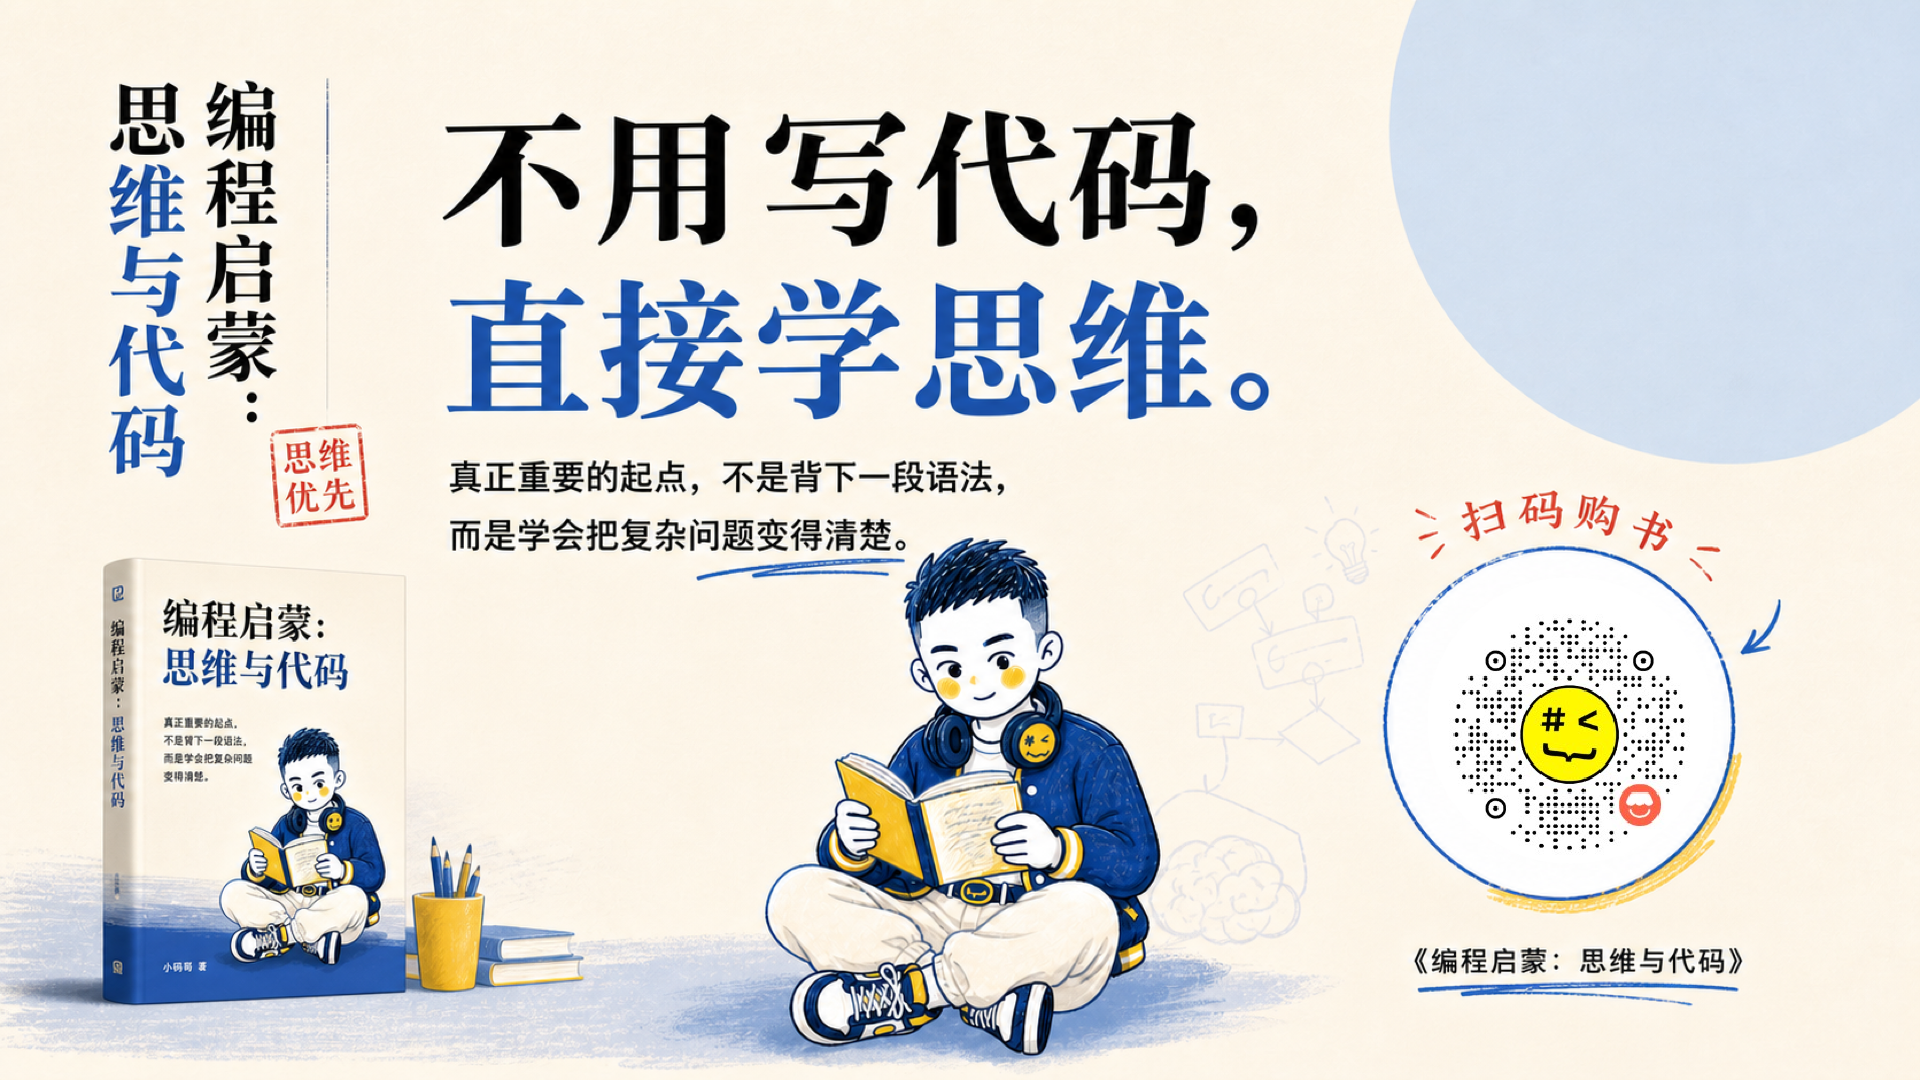
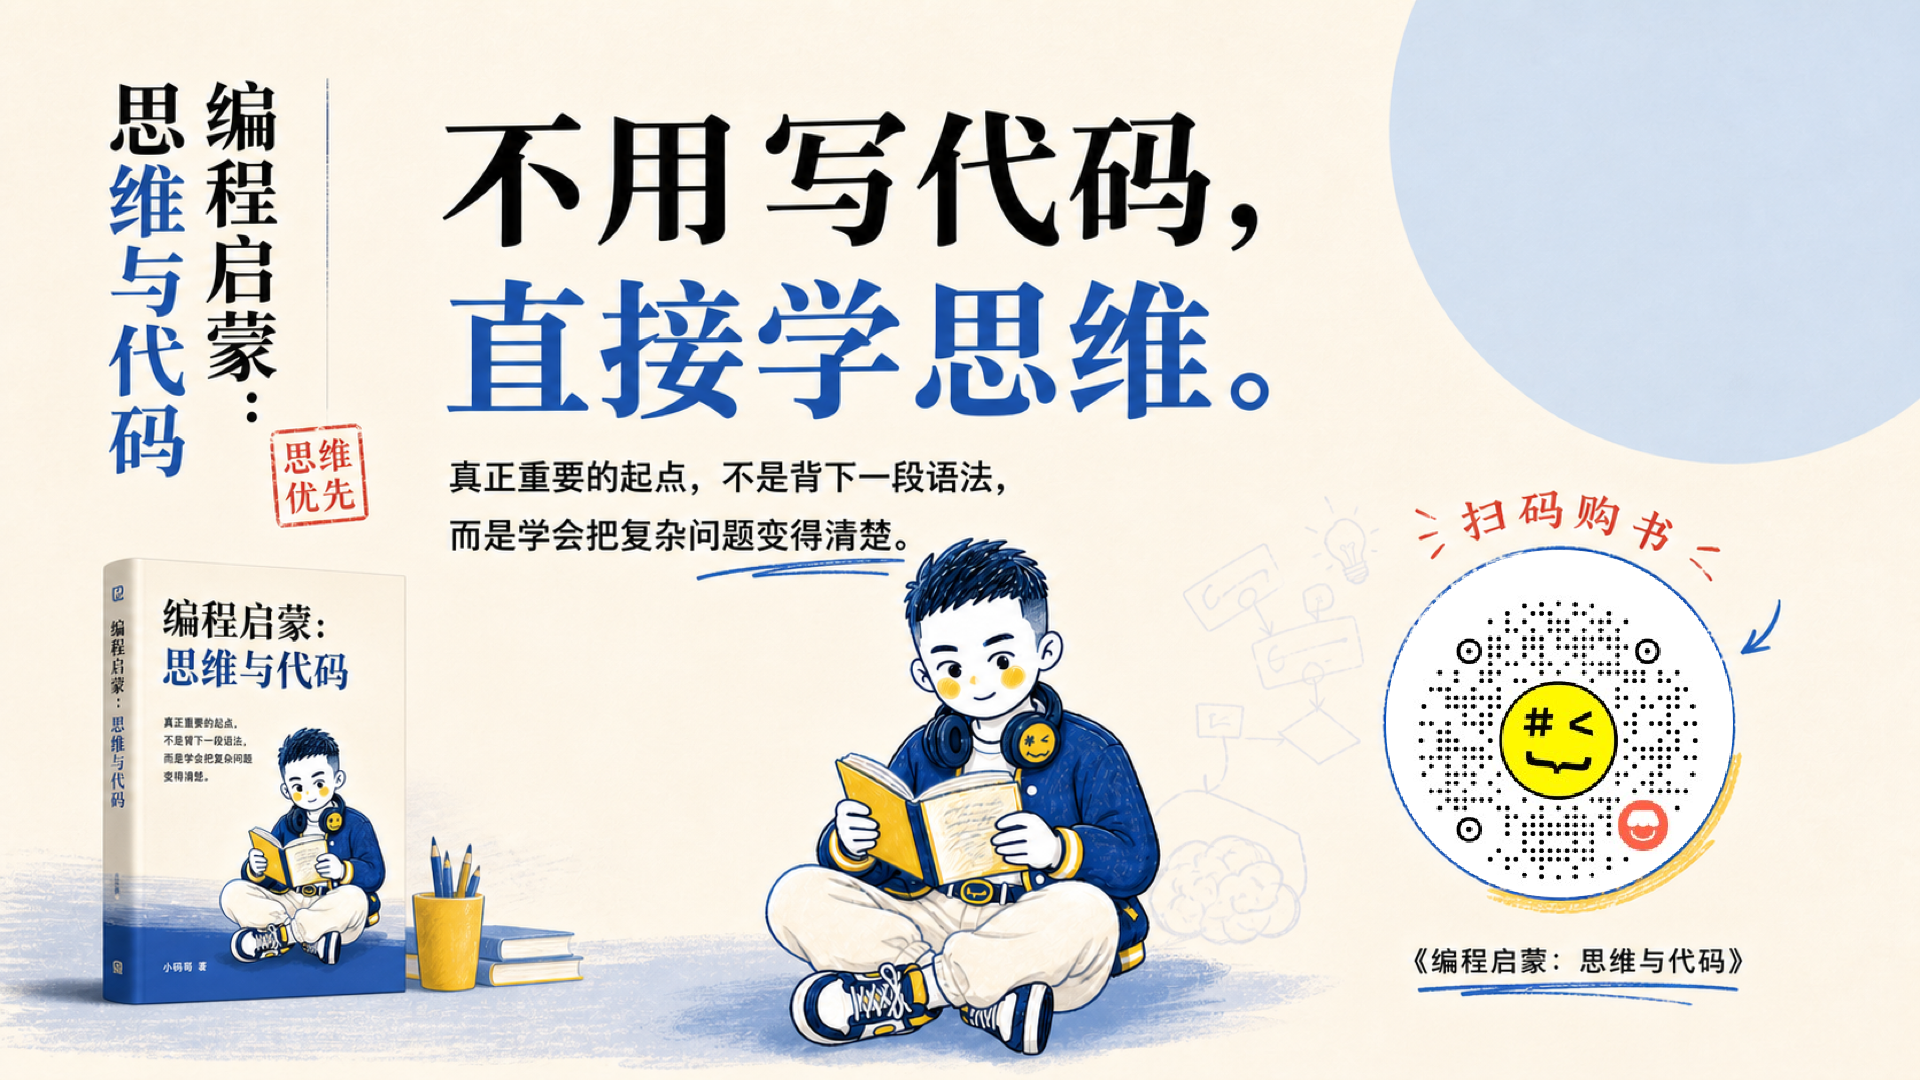
fix: enlarge QR codes across book posters

Changed region(s): [[0.7188, 0.55, 0.9062, 0.825]]

diff --git a/posters-programming-enlightenment/book-sales-qr-20-imagegen/PLACEMENT-QA.md b/posters-programming-enlightenment/book-sales-qr-20-imagegen/PLACEMENT-QA.md
@@ -4,7 +4,7 @@
 
 ## 验收规则
 
-- 每张二维码直径不小于 280px。
+- 每张二维码直径不小于 300px；根据版式留白逐张放大，最大为 430px。
 - 二维码完整保留圆形边缘与内部白色静区，不裁切黑色码点。
 - 按每张海报的预留圆形单独定位，不使用统一固定角落。
 - 不遮挡主标题、正文、人物面部、书封或“扫码购书”提示。
@@ -12,24 +12,23 @@
 
 | 编号 | 中心坐标 | 直径 |
 |---|---:|---:|
-| 01 | 1690, 775 | 280px |
-| 02 | 240, 745 | 280px |
-| 03 | 1710, 220 | 280px |
-| 04 | 1650, 870 | 300px |
-| 05 | 1470, 405 | 300px |
-| 06 | 1655, 770 | 280px |
-| 07 | 1590, 230 | 300px |
-| 08 | 1705, 840 | 300px |
-| 09 | 1708, 750 | 280px |
-| 10 | 1570, 720 | 290px |
-| 11 | 1690, 290 | 280px |
-| 12 | 1770, 885 | 280px |
-| 13 | 180, 230 | 280px |
-| 14 | 1680, 295 | 280px |
-| 15 | 235, 850 | 280px |
-| 16 | 1515, 490 | 300px |
-| 17 | 1675, 560 | 280px |
-| 18 | 1705, 465 | 280px |
-| 19 | 1695, 890 | 280px |
-| 20 | 1685, 720 | 300px |
-
+| 01 | 1709, 791 | 320px |
+| 02 | 263, 755 | 350px |
+| 03 | 1709, 239 | 340px |
+| 04 | 1665, 876 | 340px |
+| 05 | 1468, 403 | 420px |
+| 06 | 1662, 782 | 310px |
+| 07 | 1593, 229 | 390px |
+| 08 | 1702, 840 | 340px |
+| 09 | 1707, 750 | 320px |
+| 10 | 1559, 723 | 350px |
+| 11 | 1688, 303 | 340px |
+| 12 | 1760, 865 | 300px |
+| 13 | 222, 216 | 360px |
+| 14 | 1678, 295 | 350px |
+| 15 | 225, 854 | 330px |
+| 16 | 1512, 457 | 430px |
+| 17 | 1679, 571 | 320px |
+| 18 | 1722, 465 | 350px |
+| 19 | 1695, 888 | 300px |
+| 20 | 1683, 721 | 360px |

diff --git a/posters-programming-enlightenment/book-sales-qr-20-imagegen/README.md b/posters-programming-enlightenment/book-sales-qr-20-imagegen/README.md
@@ -14,8 +14,8 @@
 
 二维码裁切已去除价格、书封、店铺名称和说明文字，仅保留圆形小程序码及必要的白色静区。
 
-最终二维码按每张预留圆形独立定位，直径为 280–300px，不再缩小至原版本的 240–270px。
+最终二维码按每张预留圆形独立定位，直径为 300–430px。20 张均比上一版继续放大，并尽量填满各自的预留圆形。
 
 注意：`overview.jpg` 会把每张海报缩成选片缩略图，只用于比较版式，不能用于扫码测试；扫码时请打开 `posters/` 内的 1920×1080 单张原图。
 
-成片中的购书码根据每张版面独立定位，直径控制在 240–280 px；始终保持 1:1 等比、完整圆形边界、白色静区和高对比度，不拉伸、不裁断、不交给生成模型重绘。
+成片中的购书码始终保持 1:1 等比、完整圆形边界、白色静区和高对比度，不拉伸、不裁断、不交给生成模型重绘。第 12 张为保留下方“扫码购书”提示，二维码向上微调并保留右侧安全边距。
